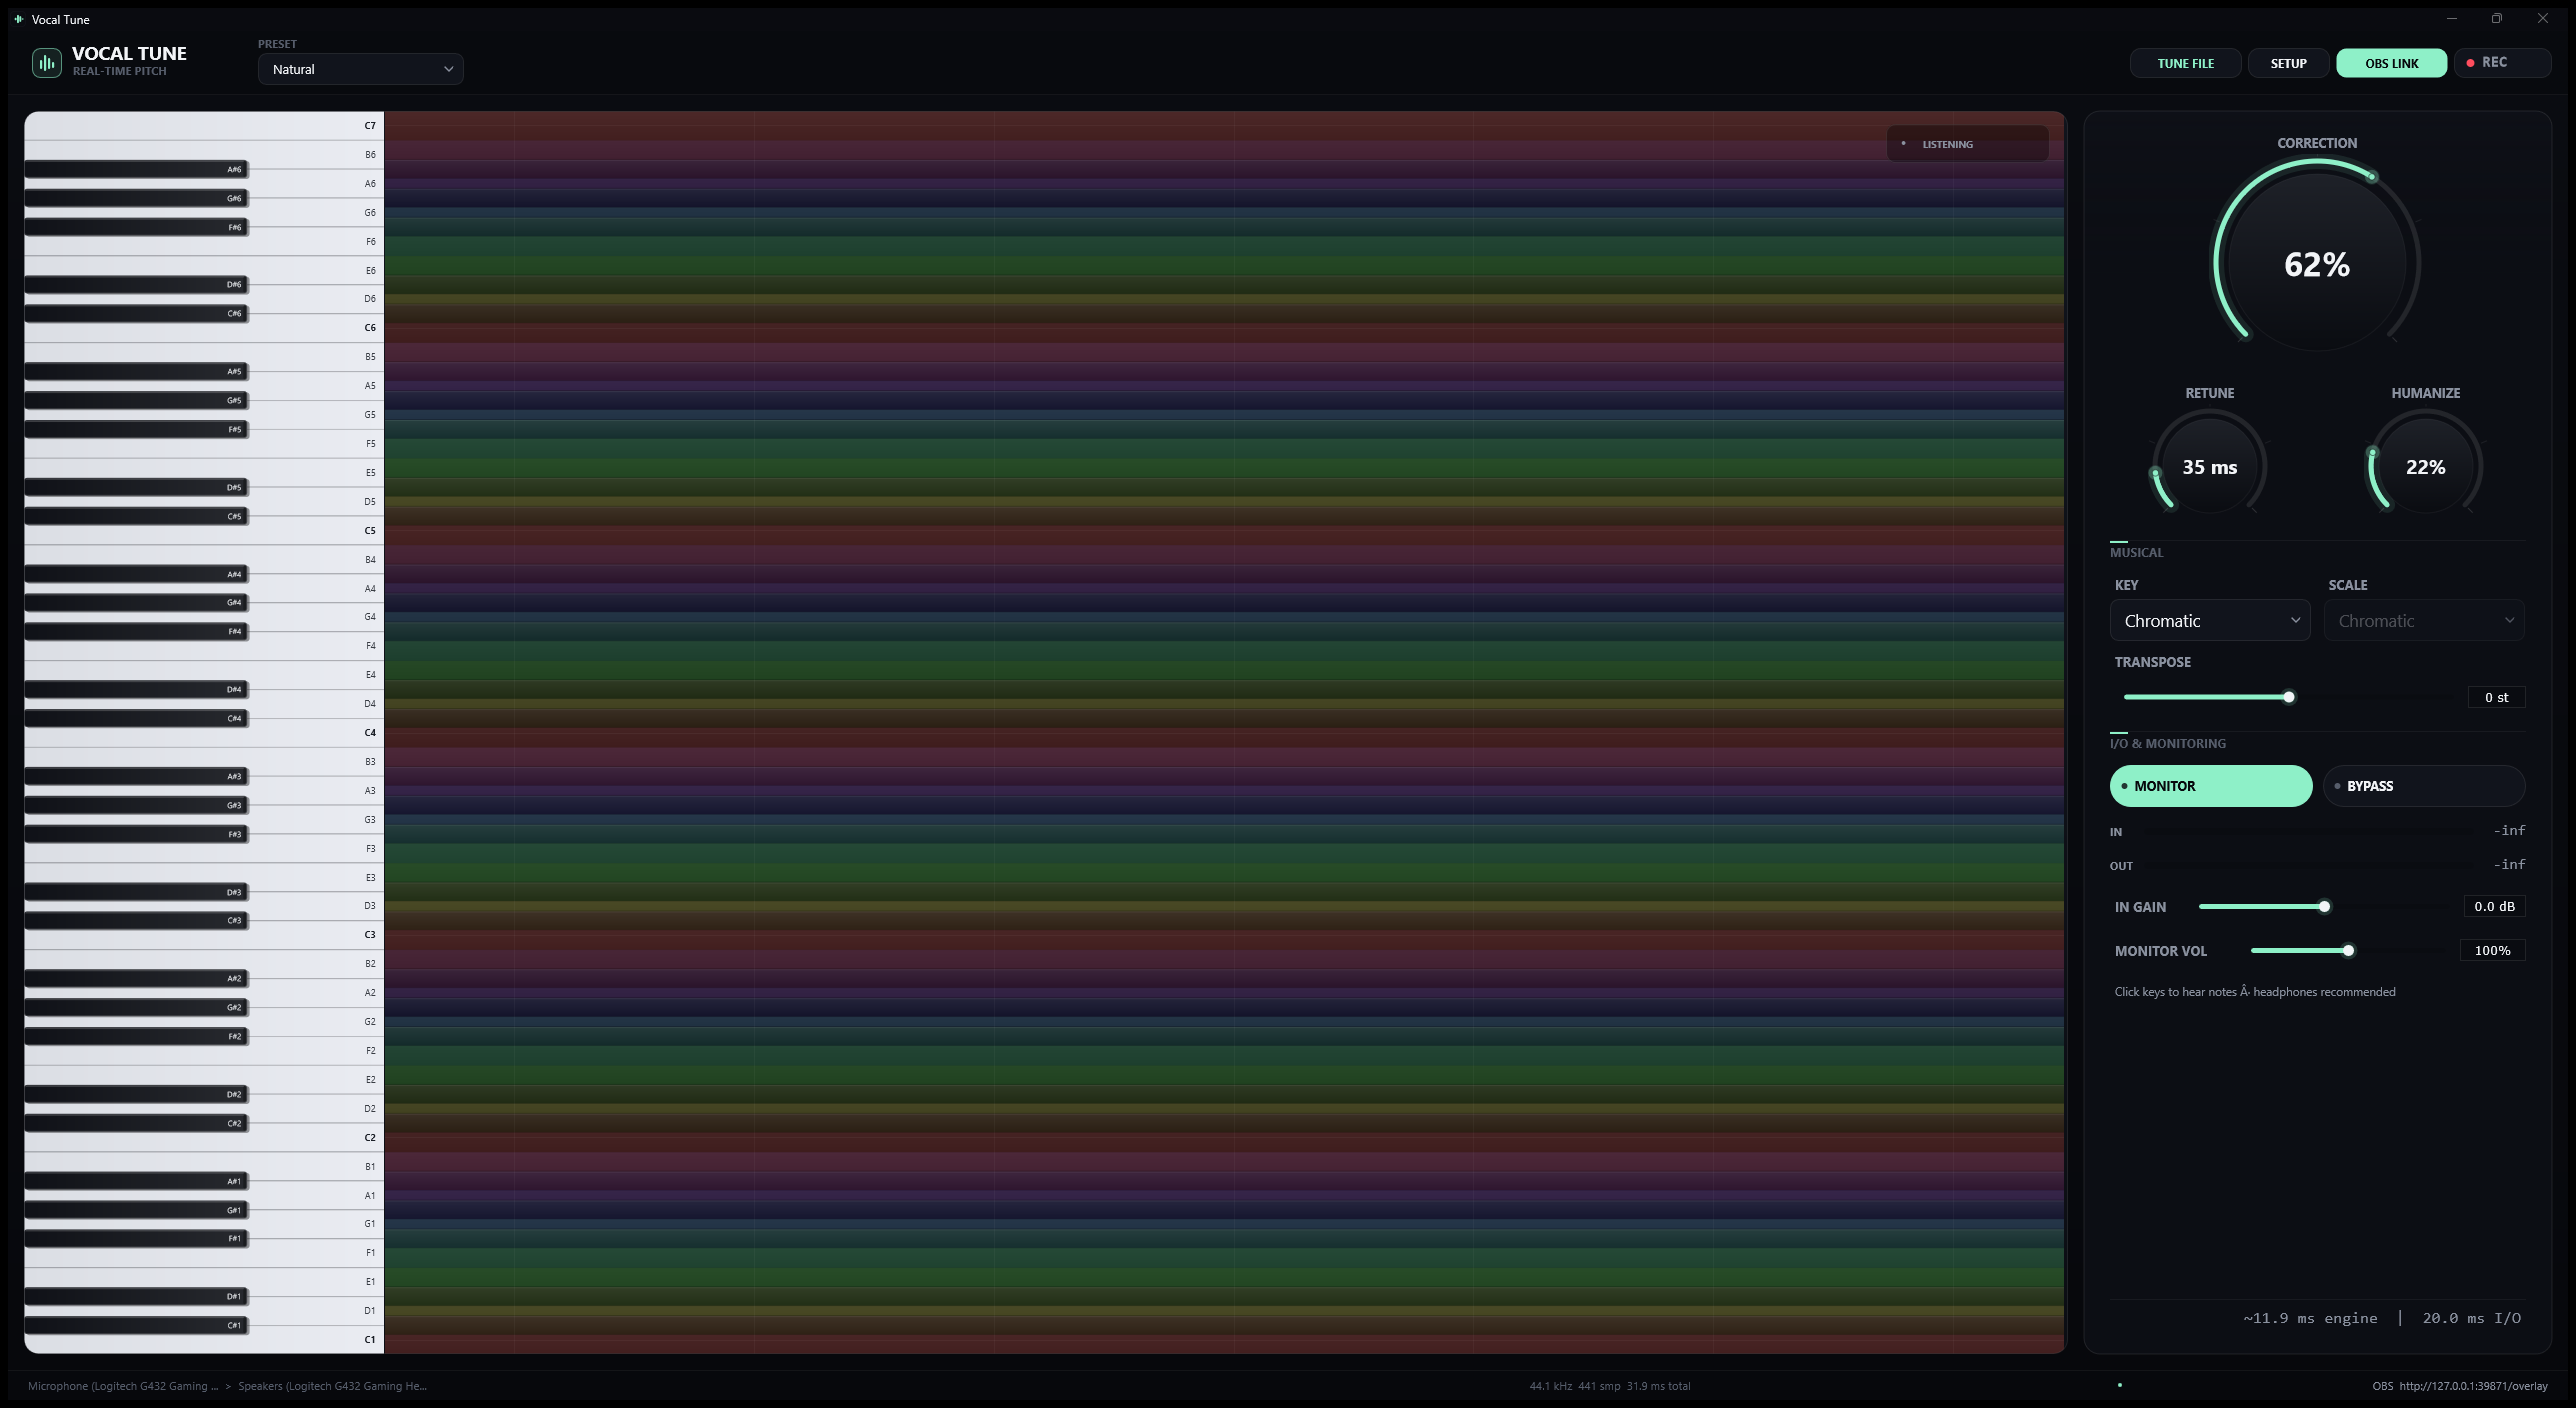
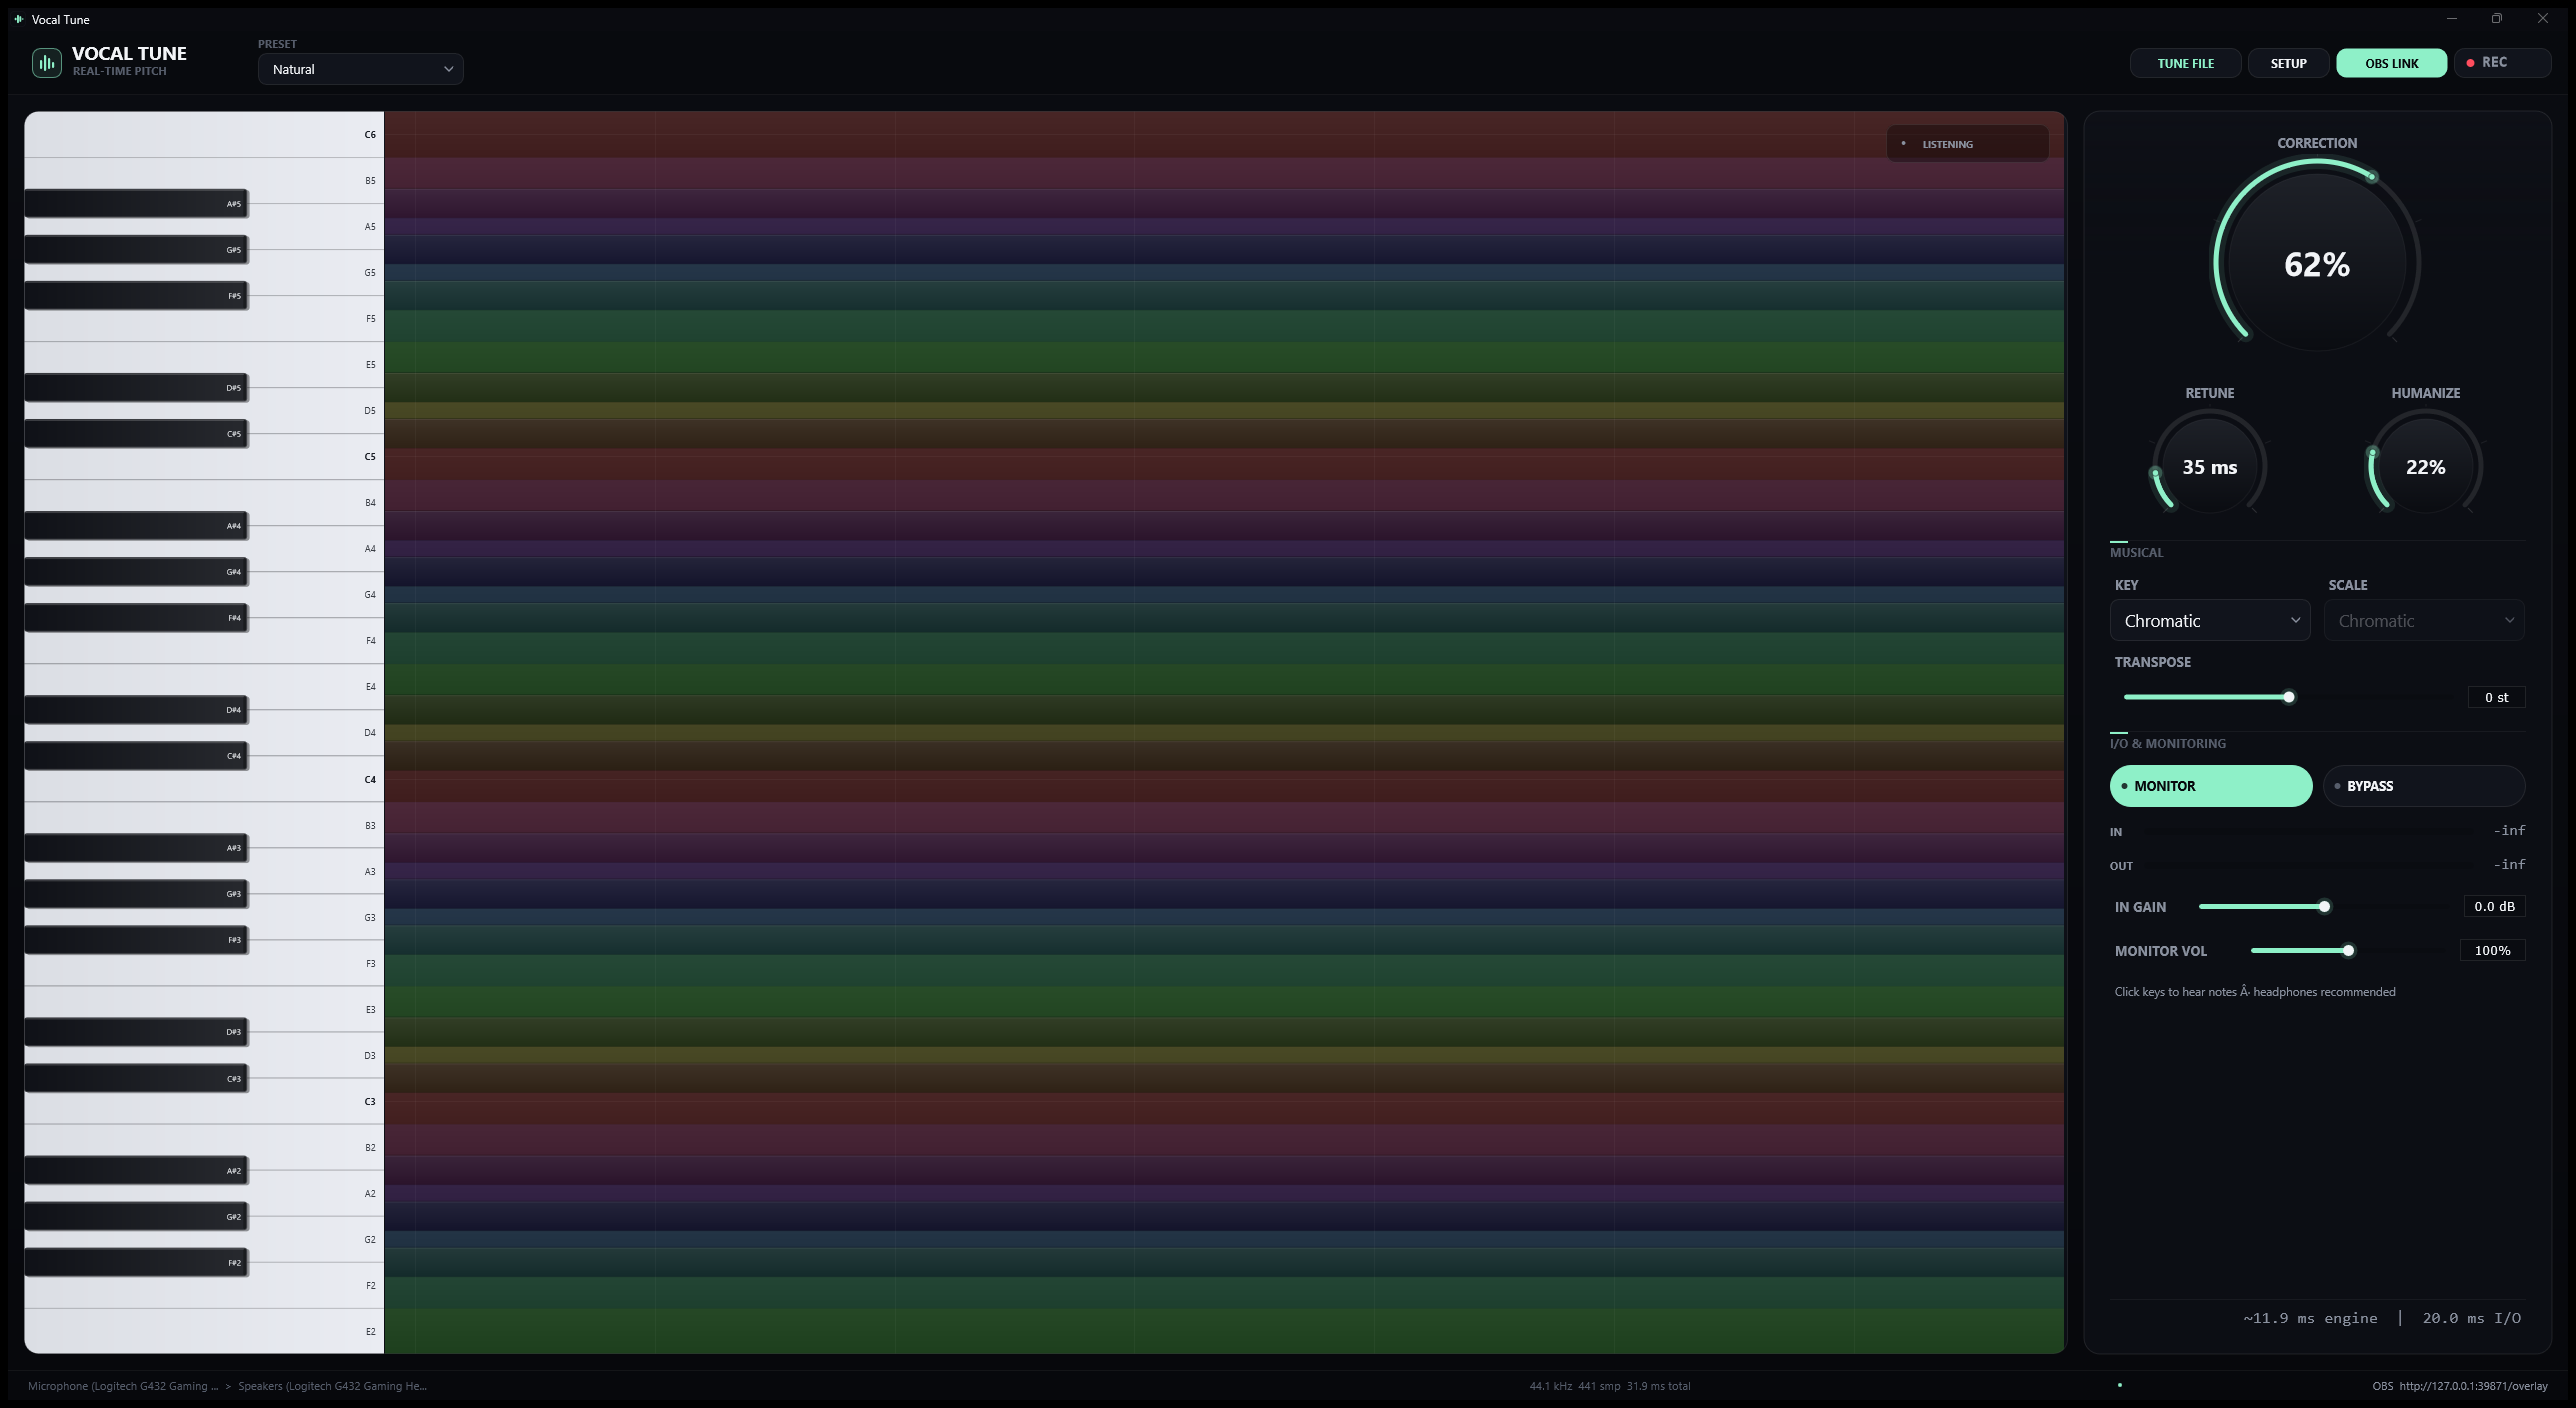
Reject octave pitch spikes and narrow keyboard to vocal range

diff --git a/Source/Resources/overlay.html b/Source/Resources/overlay.html
@@ -39,7 +39,7 @@
     caption: q.get('caption') || ''
   };
 
-  const LOW = 36, HIGH = 84;      // C2 .. C6
+  const LOW = 40, HIGH = 84;      // E2 .. C6
   const N = HIGH - LOW + 1;
   const BLACK = new Set([1, 3, 6, 8, 10]);
   const NOTE_NAMES = ['C','C#','D','D#','E','F','F#','G','G#','A','A#','B'];

diff --git a/Source/Core/PitchStabilizer.h b/Source/Core/PitchStabilizer.h
@@ -1,0 +1,153 @@
+#pragma once
+
+#include <algorithm>
+#include <array>
+#include <cmath>
+#include <cstddef>
+
+namespace autotune
+{
+
+class PitchStabilizer
+{
+public:
+    struct Settings
+    {
+        float largeStepSemitones = 4.0f;
+        float pendingMatchSemitones = 1.5f;
+        double octaveConfirmMs = 80.0;
+        double jumpConfirmMs = 35.0;
+        double silenceHoldMs = 45.0;
+    };
+
+    void reset()
+    {
+        stableFrequency = 0.0f;
+        pendingFrequency = 0.0f;
+        pendingSinceMs = 0.0;
+        lastStrongMs = 0.0;
+        recentCount = 0;
+        recentWrite = 0;
+        recent.fill (0.0f);
+        hasStable = false;
+        hasPending = false;
+    }
+
+    float process (float frequencyHz, double nowMs)
+    {
+        if (! (frequencyHz > 0.0f) || ! std::isfinite (frequencyHz))
+            return markUnvoiced (nowMs);
+
+        lastStrongMs = nowMs;
+
+        if (! hasStable)
+        {
+            setStable (frequencyHz);
+            return stableFrequency;
+        }
+
+        const float step = semitonesBetween (frequencyHz, stableFrequency);
+
+        if (std::abs (step) <= settings.largeStepSemitones)
+        {
+            hasPending = false;
+            pushRecent (frequencyHz);
+            stableFrequency = recentMedian();
+            return stableFrequency;
+        }
+
+        if (! hasPending
+            || std::abs (semitonesBetween (frequencyHz, pendingFrequency))
+                   > settings.pendingMatchSemitones)
+        {
+            pendingFrequency = frequencyHz;
+            pendingSinceMs = nowMs;
+            hasPending = true;
+        }
+        else
+        {
+            pendingFrequency = frequencyHz;
+        }
+
+        const double confirmMs = isOctaveRelated (frequencyHz, stableFrequency)
+                                     ? settings.octaveConfirmMs
+                                     : settings.jumpConfirmMs;
+
+        if (hasPending && nowMs - pendingSinceMs >= confirmMs)
+        {
+            setStable (pendingFrequency);
+            hasPending = false;
+        }
+
+        return stableFrequency;
+    }
+
+    float markUnvoiced (double nowMs)
+    {
+        hasPending = false;
+
+        if (hasStable && nowMs - lastStrongMs >= settings.silenceHoldMs)
+        {
+            hasStable = false;
+            stableFrequency = 0.0f;
+            recentCount = 0;
+            recentWrite = 0;
+        }
+
+        return stableFrequency;
+    }
+
+    float getFrequency() const noexcept { return stableFrequency; }
+    bool isStable() const noexcept { return hasStable; }
+
+private:
+    static constexpr int recentSize = 5;
+
+    static float semitonesBetween (float a, float b)
+    {
+        return (float) (12.0 * std::log2 ((double) a / (double) b));
+    }
+
+    static bool isOctaveRelated (float a, float b)
+    {
+        const float step = semitonesBetween (a, b);
+        const float nearest = std::round (step / 12.0f) * 12.0f;
+        return std::abs (nearest) >= 12.0f && std::abs (step - nearest) <= 1.0f;
+    }
+
+    void setStable (float frequencyHz)
+    {
+        hasStable = true;
+        stableFrequency = frequencyHz;
+        recentCount = 0;
+        recentWrite = 0;
+        pushRecent (frequencyHz);
+    }
+
+    void pushRecent (float frequencyHz)
+    {
+        recent[(size_t) recentWrite] = frequencyHz;
+        recentWrite = (recentWrite + 1) % recentSize;
+        recentCount = std::min (recentSize, recentCount + 1);
+    }
+
+    float recentMedian() const
+    {
+        std::array<float, recentSize> sorted = recent;
+        std::sort (sorted.begin(), sorted.begin() + recentCount);
+        return sorted[(size_t) (recentCount / 2)];
+    }
+
+    Settings settings;
+    std::array<float, recentSize> recent {};
+    int recentCount = 0;
+    int recentWrite = 0;
+    float stableFrequency = 0.0f;
+    float pendingFrequency = 0.0f;
+    double pendingSinceMs = 0.0;
+    double lastStrongMs = 0.0;
+    bool hasStable = false;
+    bool hasPending = false;
+};
+
+} // namespace autotune

diff --git a/Source/AudioEngine.cpp b/Source/AudioEngine.cpp
@@ -258,8 +258,7 @@ void AudioEngine::audioDeviceAboutToStart (juce::AudioIODevice* device)
     inputHighPass.reset();
     outputHighPass.reset();
 
-    f0History.assign (5, 0.0f);
-    f0HistoryWrite = 0;
+    pitchStabilizer.reset();
     smoothedFrequency = 0.0f;
     smoothedRatio = 1.0f;
     lastPeriodSamples = (float) (currentSampleRate / 220.0);
@@ -382,36 +381,30 @@ void AudioEngine::processChunk (const float* input, int outputOffset, int numSam
 
         if (strong)
         {
-            f0History[(size_t) f0HistoryWrite] = frame.frequency;
-            f0HistoryWrite = (f0HistoryWrite + 1) % (int) f0History.size();
+            smoothedFrequency = pitchStabilizer.process (frame.frequency, nowMs);
 
-            float sorted[5];
-            int count = 0;
-            for (float value : f0History)
-                if (value > 0.0f)
-                    sorted[count++] = value;
-
-            if (count > 0)
-            {
-                std::sort (sorted, sorted + count);
-                smoothedFrequency = sorted[count / 2];
-                lastPeriodSamples = (float) (currentSampleRate / std::max (1.0f, smoothedFrequency));
-            }
+            if (smoothedFrequency > 0.0f)
+                lastPeriodSamples = (float) (currentSampleRate / smoothedFrequency);
 
             currentConfidence = frame.confidence;
             voicedHoldUntilMs = nowMs + 32.0;
             currentVoiced = true;
         }
-        else if (nowMs > voicedHoldUntilMs)
+        else
         {
-            if (currentVoiced)
-            {
-                std::fill (f0History.begin(), f0History.end(), 0.0f);
-                smoothedFrequency = 0.0f;
-            }
+            pitchStabilizer.markUnvoiced (nowMs);
 
-            currentVoiced = false;
-            currentConfidence = 0.0f;
+            if (nowMs > voicedHoldUntilMs)
+            {
+                if (currentVoiced)
+                {
+                    pitchStabilizer.reset();
+                    smoothedFrequency = 0.0f;
+                }
+
+                currentVoiced = false;
+                currentConfidence = 0.0f;
+            }
         }
     }
 

diff --git a/Tests/CoreTests.cpp b/Tests/CoreTests.cpp
@@ -1,5 +1,6 @@
 #include "Core/NoteQuantizer.h"
 #include "Core/PitchDetector.h"
+#include "Core/PitchStabilizer.h"
 #include "Core/GranularShifter.h"
 
 #include <cmath>
@@ -73,6 +74,52 @@ namespace
         std::vector<float> silence ((size_t) window, 0.0f);
         const auto silentFrame = detector.analyseWindow (silence.data(), window);
         check (! silentFrame.voiced, "silence is unvoiced");
+    }
+
+    void testPitchStabilizer()
+    {
+        PitchStabilizer stabilizer;
+        double nowMs = 0.0;
+        float output = 0.0f;
+
+        for (int i = 0; i < 12; ++i)
+        {
+            output = stabilizer.process (220.0f, nowMs);
+            nowMs += 5.0;
+        }
+
+        check (std::abs (output - 220.0f) < 0.1f, "stabilizer locks onto 220 Hz");
+
+        for (int i = 0; i < 4; ++i)
+        {
+            output = stabilizer.process (440.0f, nowMs);
+            nowMs += 5.0;
+        }
+
+        check (std::abs (output - 220.0f) < 0.1f, "stabilizer rejects a short octave spike");
+
+        for (int i = 0; i < 4; ++i)
+        {
+            output = stabilizer.process (220.0f, nowMs);
+            nowMs += 5.0;
+        }
+
+        check (std::abs (output - 220.0f) < 0.1f, "stabilizer stays on 220 Hz after the spike");
+
+        for (int i = 0; i < 20; ++i)
+        {
+            output = stabilizer.process (440.0f, nowMs);
+            nowMs += 5.0;
+        }
+
+        check (std::abs (output - 440.0f) < 0.1f, "stabilizer accepts a sustained octave change");
+
+        nowMs += 60.0;
+        output = stabilizer.markUnvoiced (nowMs);
+        check (output == 0.0f, "stabilizer releases pitch after silence");
+
+        output = stabilizer.process (110.0f, nowMs);
+        check (std::abs (output - 110.0f) < 0.1f, "stabilizer starts a new note immediately");
     }
 
     void testQuantizer()
@@ -215,6 +262,7 @@ int main()
 {
     std::printf ("Auto-Tune DSP self-tests\n========================\n");
     testDetector();
+    testPitchStabilizer();
     testQuantizer();
     testShifter();
     testStreamingDetector();

diff --git a/Source/AudioEngine.h b/Source/AudioEngine.h
@@ -6,6 +6,7 @@
 #include "Core/Biquad.h"
 #include "Core/GranularShifter.h"
 #include "Core/PitchDetector.h"
+#include "Core/PitchStabilizer.h"
 #include "Recorder.h"
 
 #include <atomic>
@@ -131,6 +132,7 @@ private:
     juce::String lastError;
 
     autotune::PitchDetector detector;
+    autotune::PitchStabilizer pitchStabilizer;
     autotune::GranularShifter shifter;
     autotune::Biquad inputHighPass;
     autotune::Biquad outputHighPass;
@@ -157,8 +159,6 @@ private:
     std::atomic<uint32_t> referenceQueueRead { 0 };
     float referenceDecayCoefficient = 0.0f;
     float referenceAttackSamples = 1.0f;
-    std::vector<float> f0History { 0.0f, 0.0f, 0.0f, 0.0f, 0.0f };
-    int f0HistoryWrite = 0;
 
     float smoothedFrequency = 0.0f;
     float smoothedRatio = 1.0f;

diff --git a/Tests/PitchViewTests.cpp b/Tests/PitchViewTests.cpp
@@ -53,7 +53,7 @@ int main()
     const float whiteHeight = piano.getHeight() / (float) whiteCount;
 
     expect (piano.getWidth() > 0.0f && piano.getHeight() > 0.0f, "keyboard bounds are empty");
-    expect (whiteCount == 43, "expected 43 white keys");
+    expect (whiteCount == 27, "expected 27 white keys");
 
     for (int index = 0; index < whiteCount; ++index)
     {
@@ -92,7 +92,7 @@ int main()
                 "black key click was intercepted by a white key at " + juce::String (midi));
     }
 
-    expect (blackCount == 30, "expected 30 black keys");
+    expect (blackCount == 18, "expected 18 black keys");
 
     const float middleY = piano.getCentreY();
     expect (PitchViewProbe::midiAt (view, { -1.0f, middleY }) == -1,

diff --git a/Source/MainComponent.cpp b/Source/MainComponent.cpp
@@ -1128,7 +1128,7 @@ void MainComponent::publishOverlayState()
          << ",\"strength\":" << juce::String (strength, 3)
          << ",\"transpose\":" << transpose
          << ",\"tuning\":" << juce::String (tuning, 1)
-         << ",\"fmin\":60,\"fmax\":1100}";
+         << ",\"fmin\":82.4,\"fmax\":1046.5}";
 
     overlay.publishState (json);
     overlayStateDirty = false;

diff --git a/Source/PitchView.h b/Source/PitchView.h
@@ -49,8 +49,8 @@ private:
     int flashMidi = -1;
     double flashUntilMs = 0.0;
 
-    static constexpr int lowMidi = 24;   // C1
-    static constexpr int highMidi = 96;  // C7
+    static constexpr int lowMidi = 40;   // E2
+    static constexpr int highMidi = 84;  // C6
 
     friend class PitchViewProbe;
 };

diff --git a/README.md b/README.md
@@ -41,10 +41,10 @@ Settings are stored in `settings.json` and `audio-device.xml` beside the exe. Re
 - **IN GAIN** - microphone input level.
 - **MONITOR VOL** - master volume for the processed voice and the piano reference notes
   (0-200%; 100% is unity).
-- **PIANO KEYS** - the real-layout keyboard spans C1-C7 and labels every note. White keys use their
-  full key body; black keys are shorter and sit on top of the adjacent white key bands. Click or drag
-  across it to hear reference notes. They follow MONITOR VOL, play even when mic monitoring is muted,
-  and are not included in recordings.
+- **PIANO KEYS** - the real-layout keyboard spans E2-C6, the standard bass-to-soprano singing range,
+  and labels every note. White keys use their full key body; black keys are shorter and sit on top of
+  the adjacent white key bands. Click or drag across it to hear reference notes. They follow MONITOR
+  VOL, play even when mic monitoring is muted, and are not included in recordings.
 - **REC** - record the processed voice as a 24-bit mono WAV in `Recordings\`.
 - **TUNE FILE** - open the audio workbench: choose or drop a WAV/AIFF/FLAC/OGG/MP3, inspect its
   waveform, use the transport under it to **PLAY/PAUSE** and switch between **ORIGINAL** and **TUNED**,
